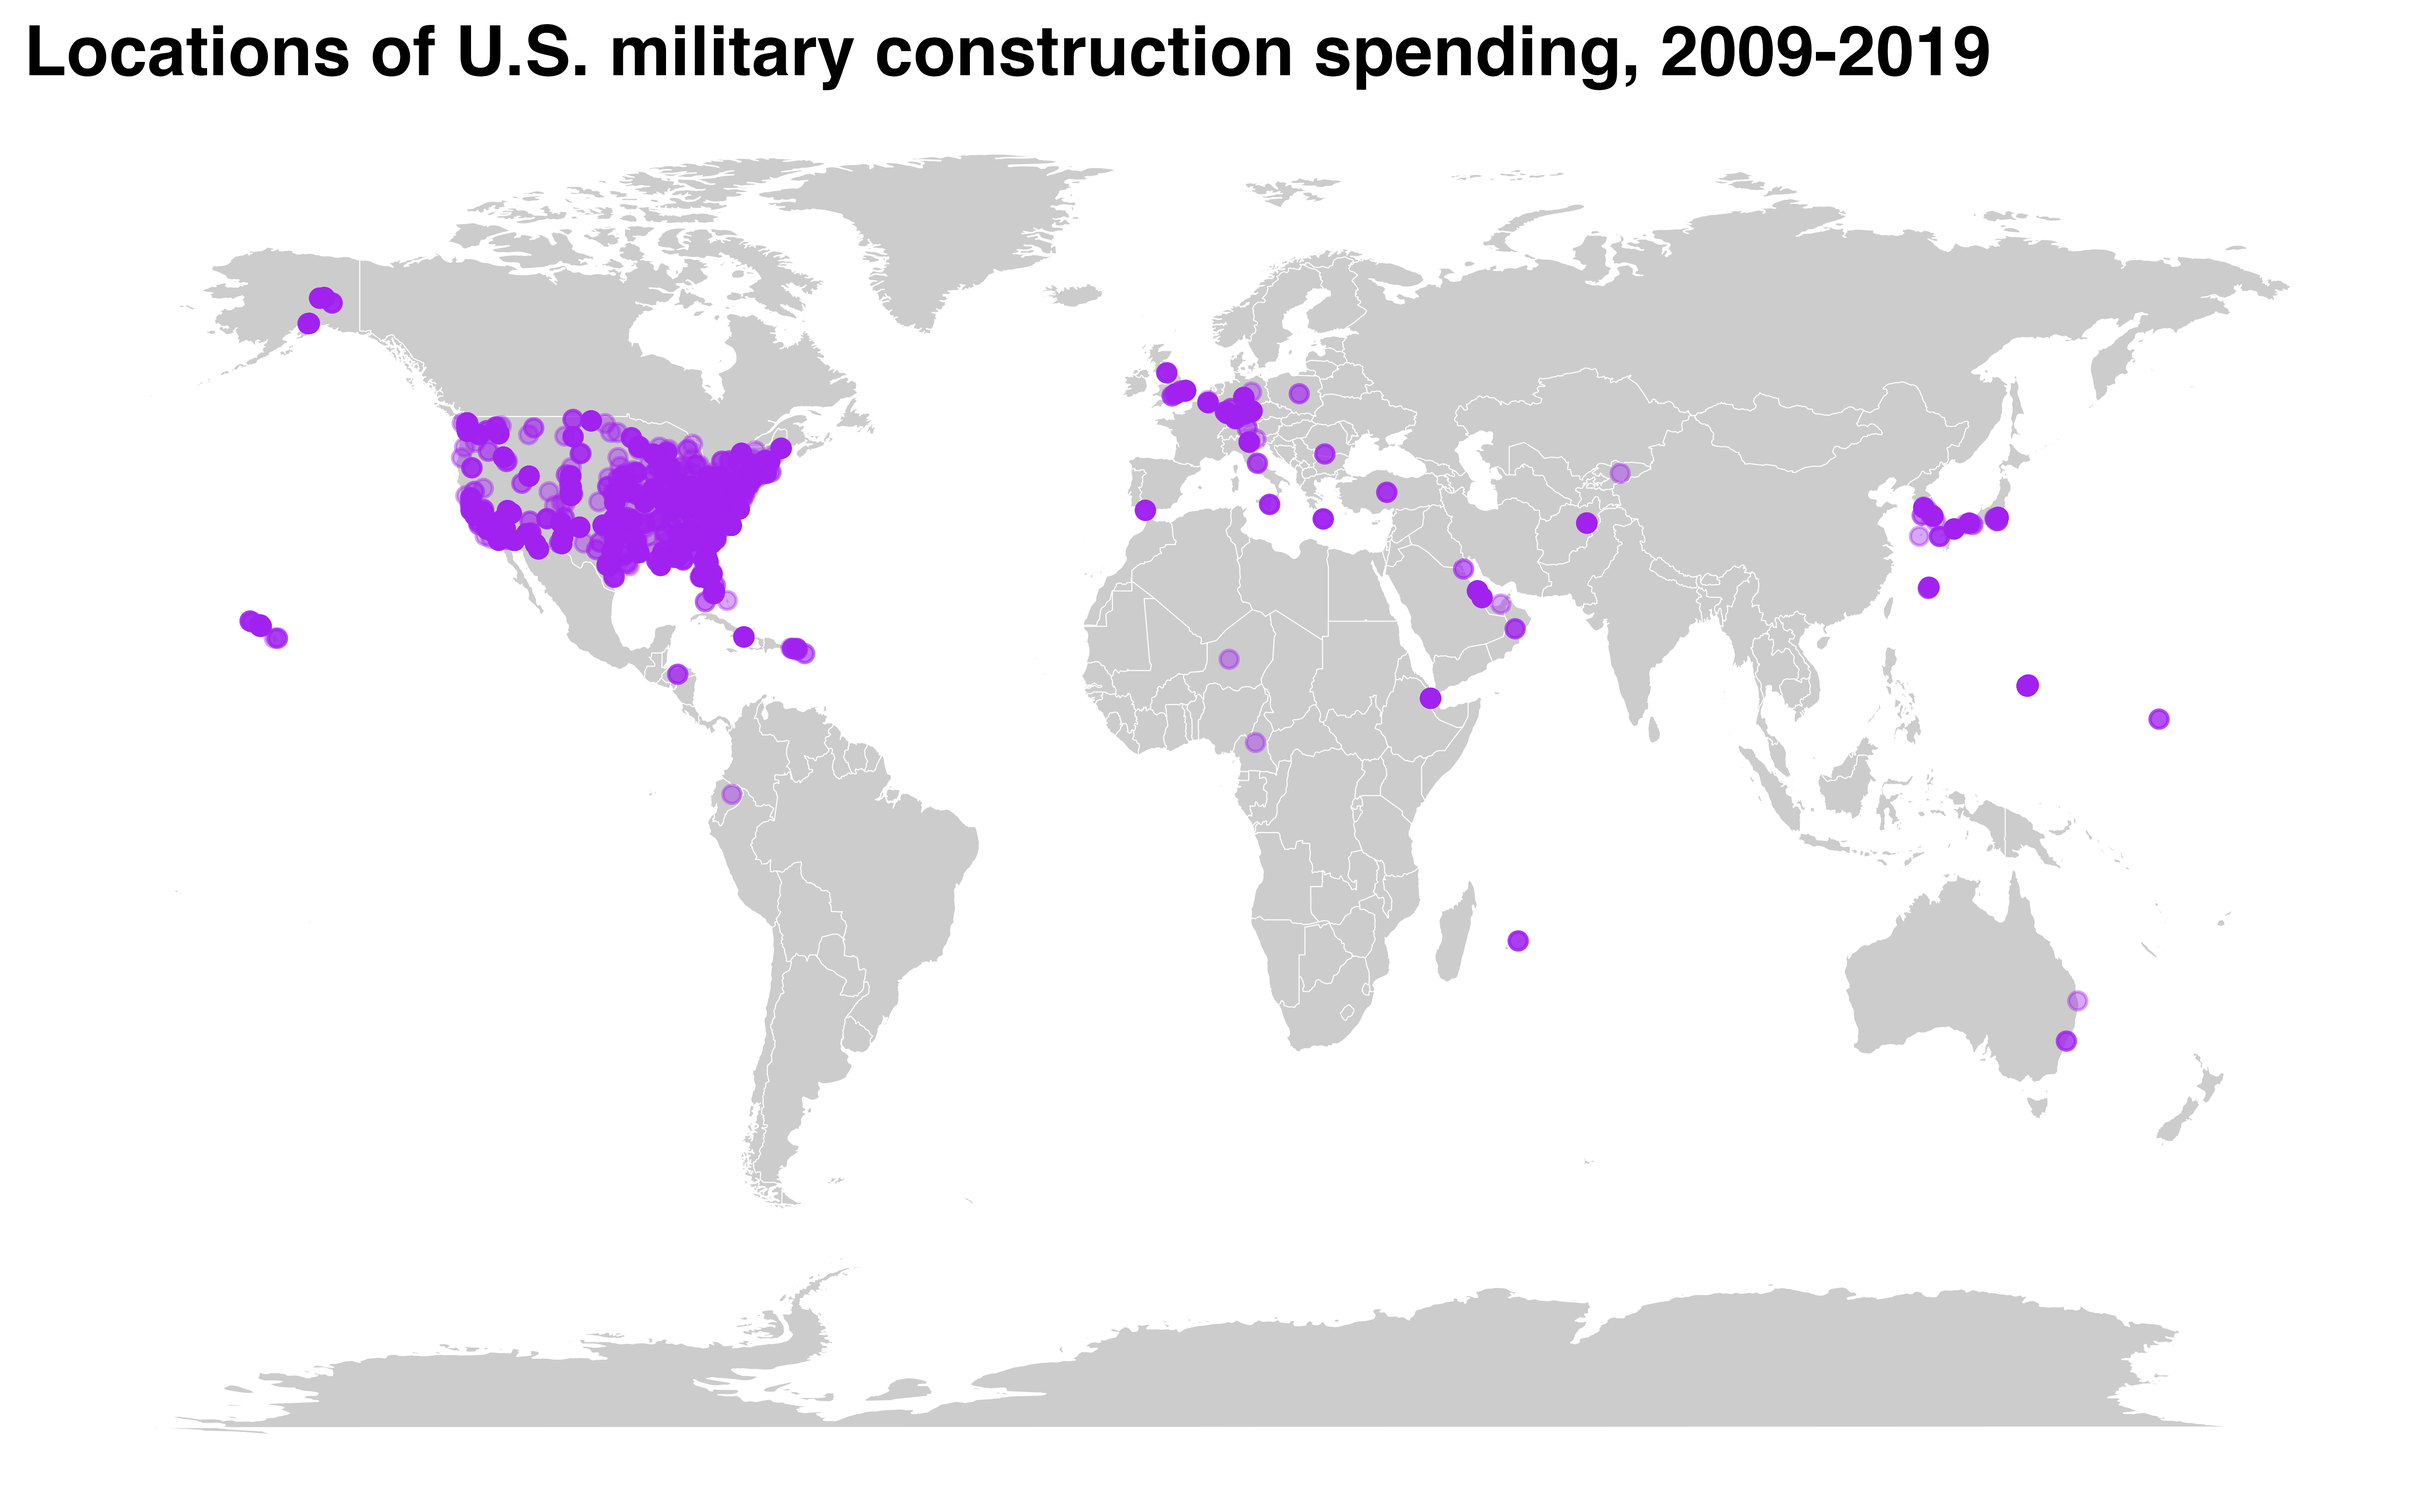
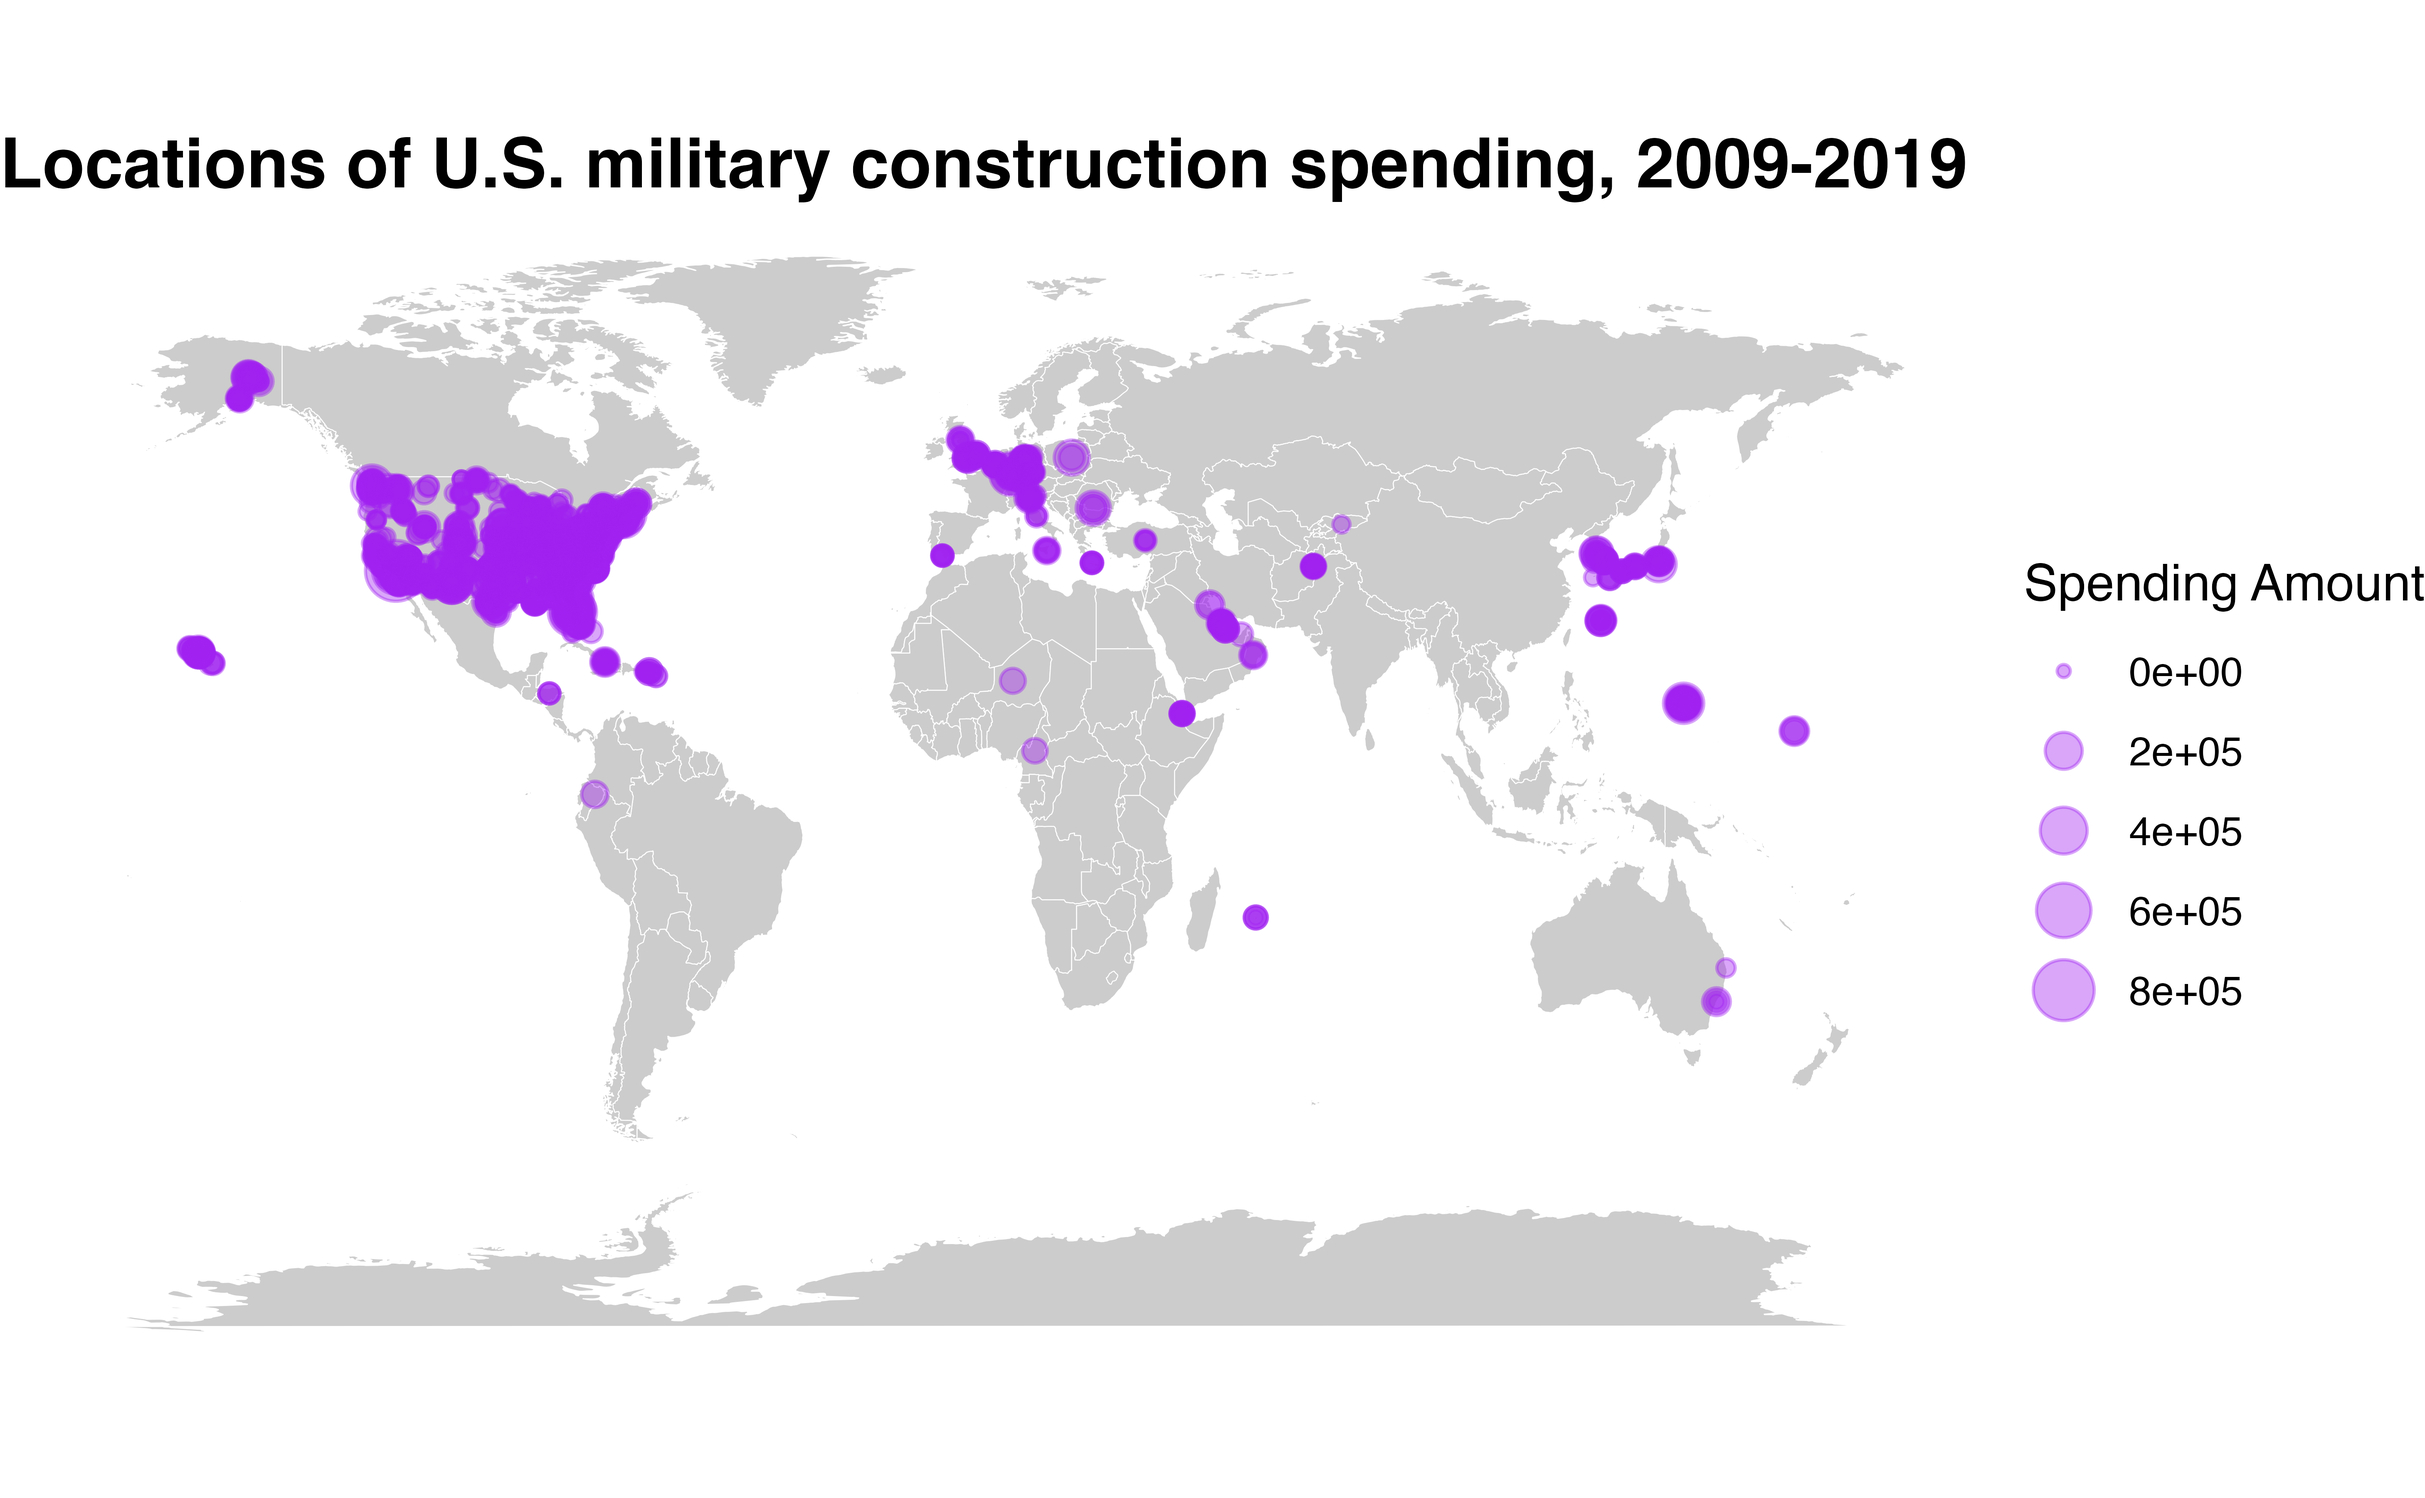
Update builddata figure with sized points based on spending value.

diff --git a/docs/articles/builddata-vignette.html b/docs/articles/builddata-vignette.html
@@ -110,10 +110,9 @@
 <div class="sourceCode" id="cb1"><pre class="downlit sourceCode r">
 <code class="sourceCode R"><span class="kw"><a href="https://rdrr.io/r/base/library.html">library</a></span><span class="op">(</span><span class="va"><a href="https://github.com/meflynn/troopdata">troopdata</a></span><span class="op">)</span></code></pre></div>
 <p>The troopdata package provides multiple functions to generate customizable datasets containing information on US military deployments and accompanying data. The <code><a href="../reference/get_basedata.html">get_basedata()</a></code> function represents the core of this package, providing customized data on US overseas troop deployments, specifically.</p>
-<div id="get_builddata" class="section level3">
-<h3 class="hasAnchor">
-<a href="#get_builddata" class="anchor"></a><code>get_builddata</code>
-</h3>
+<div id="basic-use" class="section level2">
+<h2 class="hasAnchor">
+<a href="#basic-use" class="anchor"></a>Basic Use</h2>
 <p>Users can call on the <code><a href="../reference/get_builddata.html">get_builddata()</a></code> returns a data frame containing geocoded location-project-year military construction data. The basic arguments function the same as compared to the previous functions. The primary difference is that the data are currently available only for all countries and years where the Department of Defense publicly discloses spending figures from 2008 through 2019. Note there are also many observations included that contain amounts, but do not disclose location names or other information.</p>
 <div class="sourceCode" id="cb2"><pre class="downlit sourceCode r">
 <code class="sourceCode R">
@@ -136,7 +135,7 @@
 <span class="co">#&gt; 4 United Kingdom   200 GBR    2008 Menwith Hill Station        54.8 -2.70             31000</span>
 <span class="co">#&gt; 5 United Kingdom   200 GBR    2009 Royal Air Force Lakenheath  52.4  0.518            71828</span>
 <span class="co">#&gt; 6 United Kingdom   200 GBR    2009 Royal Air Force Lakenheath  52.4  0.518             7400</span></code></pre></div>
-<p>As with the base data you can build cool maps using the construction data.</p>
+<p>As with the base data you can build cool maps using the construction data. You can also size the points according to the amount of spending associated with a particular location, adding some additional details to maps and other figures.</p>
 <div class="sourceCode" id="cb3"><pre class="downlit sourceCode r">
 <code class="sourceCode R">
 <span class="kw"><a href="https://rdrr.io/r/base/library.html">library</a></span><span class="op">(</span><span class="va"><a href="https://ggplot2.tidyverse.org">ggplot2</a></span><span class="op">)</span>
@@ -146,12 +145,13 @@
 
 
 <span class="va">buildmap</span> <span class="op">&lt;-</span> <span class="fu"><a href="https://ggplot2.tidyverse.org/reference/ggplot.html">ggplot</a></span><span class="op">(</span><span class="op">)</span> <span class="op">+</span>
-  <span class="fu"><a href="https://ggplot2.tidyverse.org/reference/geom_polygon.html">geom_polygon</a></span><span class="op">(</span>data <span class="op">=</span> <span class="va">map</span>, <span class="fu"><a href="https://ggplot2.tidyverse.org/reference/aes.html">aes</a></span><span class="op">(</span>x <span class="op">=</span> <span class="va">long</span>, y <span class="op">=</span> <span class="va">lat</span>, group <span class="op">=</span> <span class="va">group</span>, size <span class="op">=</span> <span class="va">spend_construction</span><span class="op">)</span>, fill <span class="op">=</span> <span class="st">"gray80"</span>, color <span class="op">=</span> <span class="st">"white"</span>, size <span class="op">=</span> <span class="fl">0.1</span><span class="op">)</span> <span class="op">+</span>
-  <span class="fu"><a href="https://ggplot2.tidyverse.org/reference/geom_point.html">geom_point</a></span><span class="op">(</span>data <span class="op">=</span> <span class="va">basepoints</span>, <span class="fu"><a href="https://ggplot2.tidyverse.org/reference/aes.html">aes</a></span><span class="op">(</span>x <span class="op">=</span> <span class="va">lon</span>, y <span class="op">=</span> <span class="va">lat</span><span class="op">)</span>, color <span class="op">=</span> <span class="st">"purple"</span>, alpha <span class="op">=</span> <span class="fl">0.4</span><span class="op">)</span> <span class="op">+</span>
+  <span class="fu"><a href="https://ggplot2.tidyverse.org/reference/geom_polygon.html">geom_polygon</a></span><span class="op">(</span>data <span class="op">=</span> <span class="va">map</span>, <span class="fu"><a href="https://ggplot2.tidyverse.org/reference/aes.html">aes</a></span><span class="op">(</span>x <span class="op">=</span> <span class="va">long</span>, y <span class="op">=</span> <span class="va">lat</span>, group <span class="op">=</span> <span class="va">group</span><span class="op">)</span>, fill <span class="op">=</span> <span class="st">"gray80"</span>, color <span class="op">=</span> <span class="st">"white"</span>, size <span class="op">=</span> <span class="fl">0.1</span><span class="op">)</span> <span class="op">+</span>
+  <span class="fu"><a href="https://ggplot2.tidyverse.org/reference/geom_point.html">geom_point</a></span><span class="op">(</span>data <span class="op">=</span> <span class="va">basepoints</span>, <span class="fu"><a href="https://ggplot2.tidyverse.org/reference/aes.html">aes</a></span><span class="op">(</span>x <span class="op">=</span> <span class="va">lon</span>, y <span class="op">=</span> <span class="va">lat</span>, size <span class="op">=</span> <span class="va">spend_construction</span><span class="op">)</span>, color <span class="op">=</span> <span class="st">"purple"</span>, alpha <span class="op">=</span> <span class="fl">0.4</span><span class="op">)</span> <span class="op">+</span>
   <span class="fu"><a href="https://ggplot2.tidyverse.org/reference/coord_fixed.html">coord_equal</a></span><span class="op">(</span>ratio <span class="op">=</span> <span class="fl">1.3</span><span class="op">)</span> <span class="op">+</span>
   <span class="fu"><a href="https://ggplot2.tidyverse.org/reference/ggtheme.html">theme_void</a></span><span class="op">(</span><span class="op">)</span> <span class="op">+</span>
   <span class="fu"><a href="https://ggplot2.tidyverse.org/reference/theme.html">theme</a></span><span class="op">(</span>plot.title <span class="op">=</span> <span class="fu">element_markdown</span><span class="op">(</span>face <span class="op">=</span> <span class="st">"bold"</span>, size <span class="op">=</span> <span class="fl">15</span><span class="op">)</span><span class="op">)</span> <span class="op">+</span>
-  <span class="fu"><a href="https://ggplot2.tidyverse.org/reference/labs.html">labs</a></span><span class="op">(</span>title <span class="op">=</span> <span class="st">"Locations of U.S. military construction spending, 2009-2019"</span><span class="op">)</span>
+  <span class="fu"><a href="https://ggplot2.tidyverse.org/reference/labs.html">labs</a></span><span class="op">(</span>title <span class="op">=</span> <span class="st">"Locations of U.S. military construction spending, 2009-2019"</span>,
+       size <span class="op">=</span> <span class="st">"Spending Amount"</span><span class="op">)</span>
 
 
 <span class="va">buildmap</span></code></pre></div>
@@ -161,7 +161,9 @@
 
   <div class="col-md-3 hidden-xs hidden-sm" id="pkgdown-sidebar">
 
-      </div>
+        <nav id="toc" data-toggle="toc"><h2 data-toc-skip>Contents</h2>
+    </nav>
+</div>
 
 </div>
 
